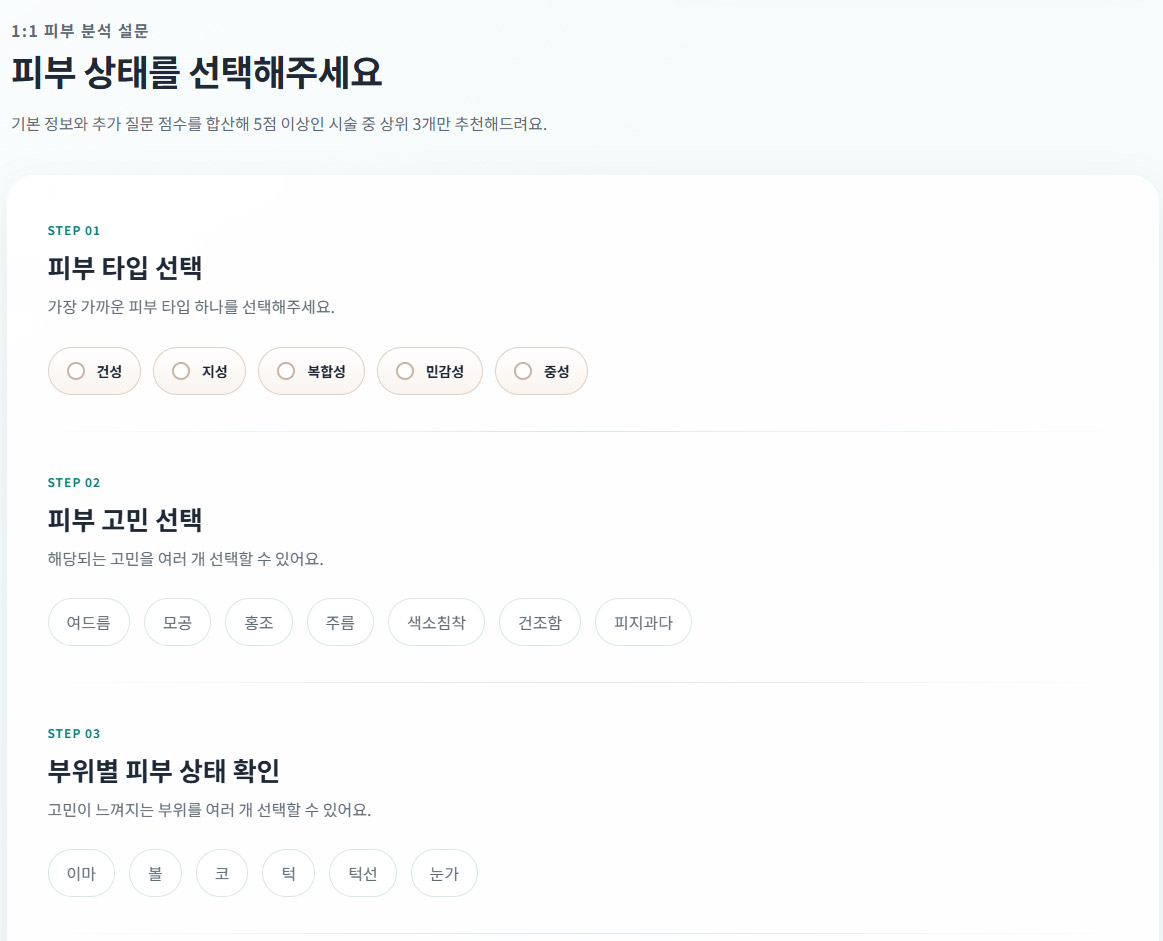
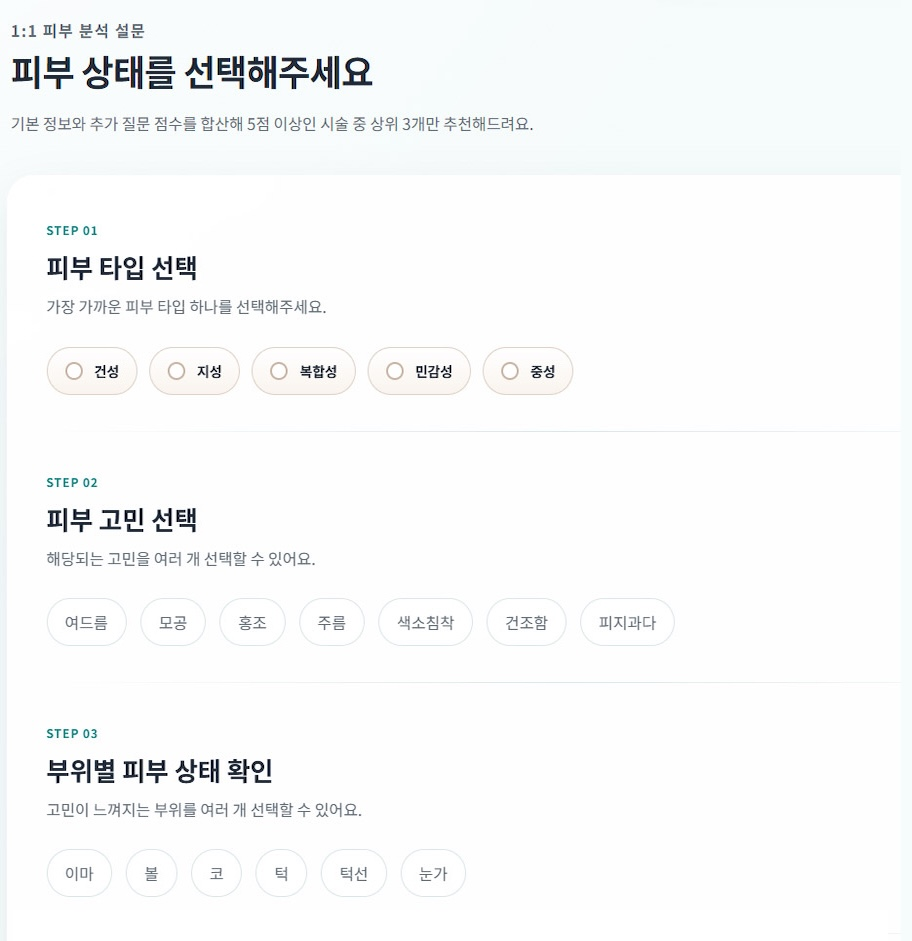
image 수정

diff --git a/README.md b/README.md
@@ -38,13 +38,13 @@ Skin Clinic은 사용자가 피부 타입, 피부 고민, 고민 부위, 추가 
 
 <p align="center">
   <img src="./images/dashboard-1.jpg" width="38%" alt="마이페이지 대시보드 화면">
-  <img src="./images/dashboard-2.jpg" width="56%" alt="마이페이지 이력 조회 화면">
+  <img src="./images/dashboard-2.jpg" width="46%" alt="마이페이지 이력 조회 화면">
 </p>
 
 ### 챗봇 상담
 
 <p align="center">
-  <img src="./images/chatbot-1.png" width="280" alt="챗봇 상담 진입 화면">
+  <img src="./images/chatbot-1.png" width="180" alt="챗봇 상담 진입 화면">
 </p>
 
 <p align="center">
@@ -66,12 +66,15 @@ Skin Clinic은 사용자가 피부 타입, 피부 고민, 고민 부위, 추가 
 
 <p align="center">
   <img src="./images/review-1.jpg" width="56%" alt="시술 만족도 평가 목록 화면">
-  <img src="./images/review-4.jpg" width="38%" alt="시술 만족도 평가 통계 화면">
+
+</p>
+<p align="center">
+  <img src="./images/review-2.jpg" width="42%" alt="시술 만족도 평가 작성 화면">
 </p>
 
 <p align="center">
-  <img src="./images/review-2.jpg" width="42%" alt="시술 만족도 평가 작성 화면">
   <img src="./images/review-3.jpg" width="42%" alt="시술 만족도 평가 상세 화면">
+  <img src="./images/review-4.jpg" width="38%" alt="시술 만족도 평가 통계 화면">
 </p>
 
 <br />
